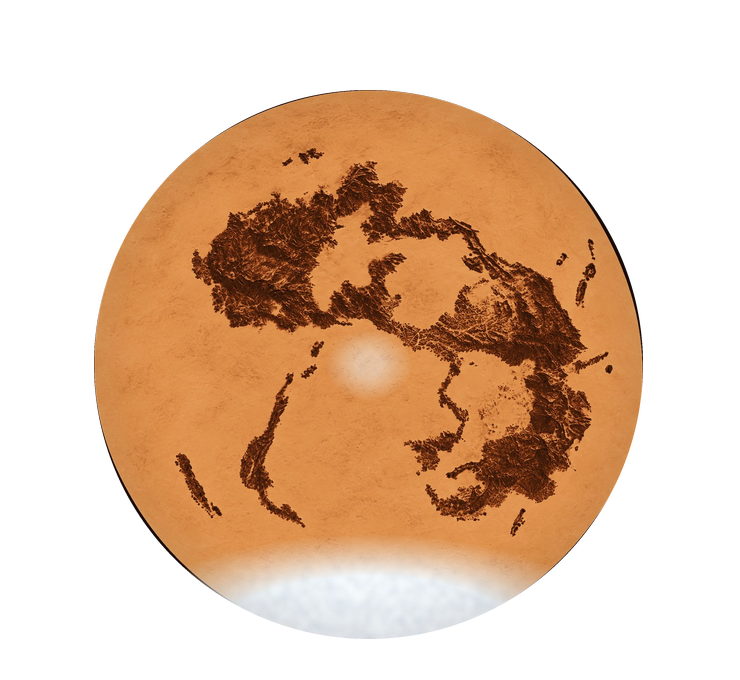
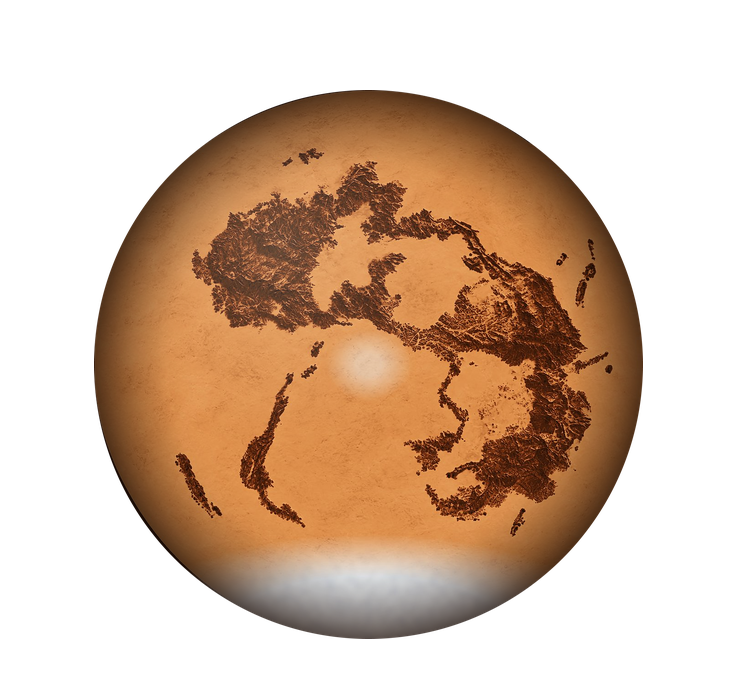
Dune board planet from the mockup globe (arrakis-globe.png, darker rim)
Claude-Session: https://claude.ai/code/session_01Hm7JhJk6hoDEdgvNzsWLyo

Changed region(s): [[0.1243, 0.1235, 0.8703, 0.9574]]

diff --git a/scripts/make-dune-planet.py b/scripts/make-dune-planet.py
@@ -1,16 +1,16 @@
 #!/usr/bin/env python3
-# Builds the planet pictures of the Dune theme (assets/themes/dune/arrakis-planet*.png) from the square map
-# assets/themes/dune/source/arrakis-map.jpg (planet circle inscribed in the square). Needs only Pillow.
+# Builds the planet pictures of the Dune theme (assets/themes/dune/arrakis-planet*.png) from the globe of the mockup
+# assets/themes/dune/source/arrakis-globe.png (cut-out sphere, square; copied by scripts/sync-dune-graphics.sh).
+# Needs only Pillow.
 #
 # Why: the board lays its hexes over assets/board/mars-planet*.png. Arrakis takes exactly the same place, so the
 # pictures have the same size and the planet circle sits where Mars sits; the hexes then line up with the map.
 # Never edit the PNGs by hand – change this script and run it again: python3 scripts/make-dune-planet.py
 import os
-from PIL import Image, ImageChops, ImageDraw
+from PIL import Image
 
 ROOT = os.path.join(os.path.dirname(os.path.abspath(__file__)), '..')
-SOURCE = os.path.join(ROOT, 'assets/themes/dune/source/arrakis-map.jpg')
-SUPERSAMPLE = 4
+SOURCE = os.path.join(ROOT, 'assets/themes/dune/source/arrakis-globe.png')
 
 # Mars picture, the planet-only picture that gives the planet circle (its alpha box), Dune picture to write.
 TARGETS = [
@@ -23,22 +23,9 @@ TARGETS = [
 ]
 
 
-def limb_darkening(distance: int) -> int:
-    # distance 0 (centre) … 255 (rim) → brightness; the outer 45 % darken softly, so the map reads as a sphere
-    relative = distance / 255
-    dark = max(0.0, (relative - 0.55) / 0.45) ** 1.6
-    return round(255 * (1 - 0.45 * dark))
-
-
 def sphere(size: int) -> Image.Image:
-    planet = Image.open(SOURCE).convert('RGB').resize((size, size), Image.LANCZOS)
-    shade = Image.radial_gradient('L').resize((size, size), Image.BICUBIC).point(limb_darkening)
-    planet = ImageChops.multiply(planet, Image.merge('RGB', (shade, shade, shade)))
-    # Round cut-out, drawn larger and scaled down for a smooth edge
-    mask = Image.new('L', (size * SUPERSAMPLE, size * SUPERSAMPLE), 0)
-    ImageDraw.Draw(mask).ellipse((0, 0, size * SUPERSAMPLE - 1, size * SUPERSAMPLE - 1), fill=255)
-    planet.putalpha(mask.resize((size, size), Image.LANCZOS))
-    return planet
+    # The globe is already a cut-out sphere with a darker rim (drawn in the mockup); only scaled here
+    return Image.open(SOURCE).convert('RGBA').resize((size, size), Image.LANCZOS)
 
 
 # The board pictures of Mars carry the scale rings; Arrakis draws its scales as vectors (ArrakisScales.vue), sharp at
